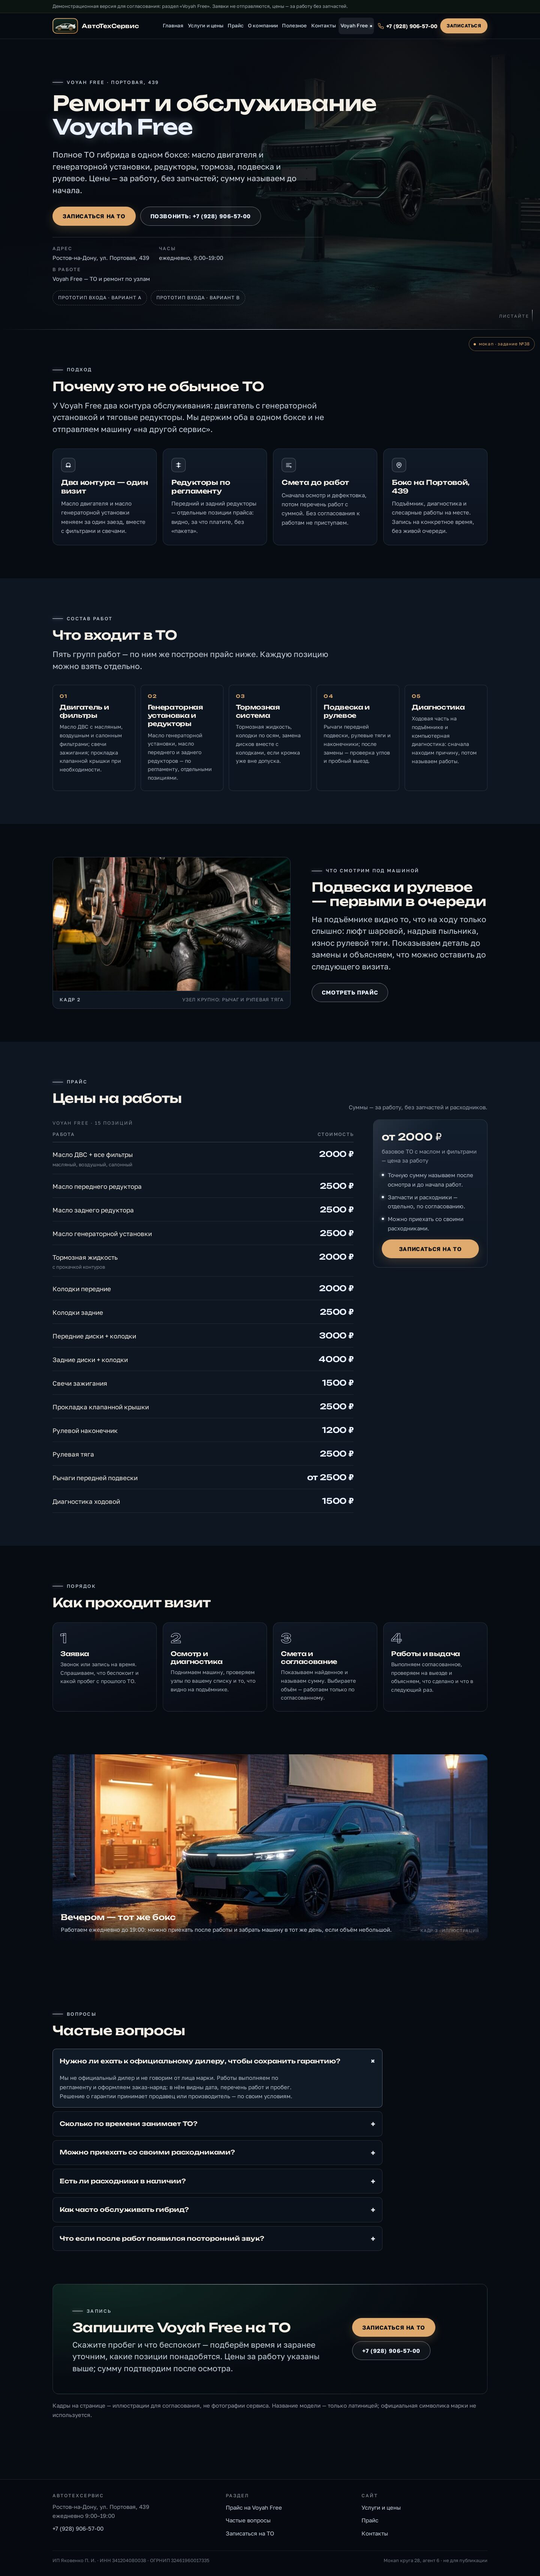
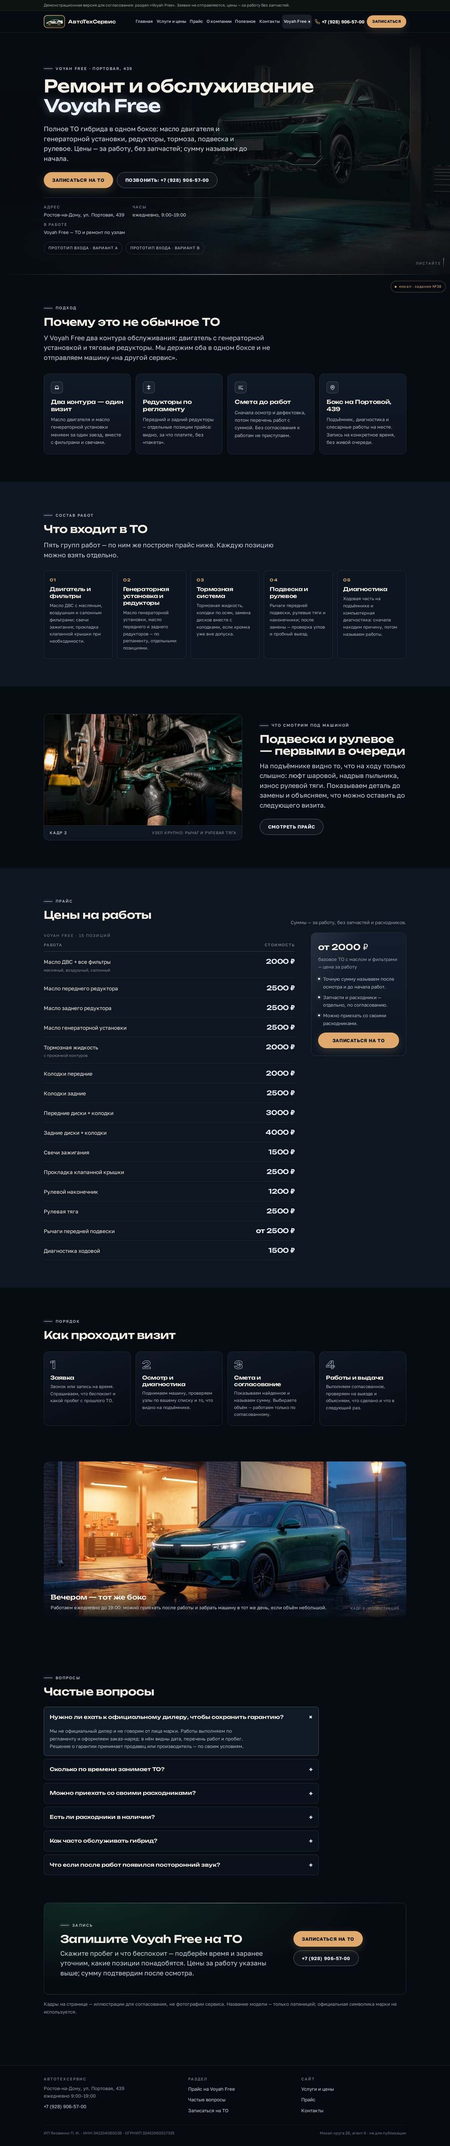
r28/a6: скриншоты в shots/ приведены под 400 КБ (полная страница 1440 сжата до 1200 px)

diff --git a/mockups/r28/voyah/README.md b/mockups/r28/voyah/README.md
@@ -8,7 +8,7 @@
 | `home-section.html` | секция-тизер для главной **между «О компании» и «Как мы работаем»**: сверху фрагмент тёмной секции, снизу — айвори, между ними пунктирные «линейки стыка» (только в мокапе) |
 | `intro-a.html` | прототип входа, вариант A «Световая линия» |
 | `intro-b.html` | прототип входа, вариант B «Сборка силуэта из световых полос» |
-| `shots/` | скриншоты (см. ниже) |
+| `shots/` | 14 скриншотов, каждый ≤ 400 КБ (см. ниже) |
 | `src/` | исходники страниц без инлайн-CSS — для правок; `node build.cjs` пересобирает четыре итоговых файла |
 
 `build.cjs`, `measure.cjs`, `shot.cjs`, `verify.cjs` — служебные скрипты стенда (puppeteer-core + Chromium 131).
@@ -21,7 +21,7 @@
 | Файл | Что показывает |
 |---|---|
 | `page-1440-hero.jpg` | первый экран 1440 |
-| `page-1440-full.jpg` | страница целиком, 1440 (для оценки ритма) |
+| `page-1440-full.jpg` | страница целиком, 1440 → сжата до 1200 px по ширине, чтобы вес был под 400 КБ (для оценки ритма) |
 | `page-390-hero.jpg`, `page-390-full.jpg`, `page-390-price.png` | мобильный первый экран, страница целиком, прайс карточками |
 | `home-section-1440.jpg`, `home-section-390.png` | стык «О компании» → тизер → «Как мы работаем» |
 | `header-1440.png`, `header-1024.png` | шапка с семью пунктами на 1440 и 1024 (кнопка «Записаться» внутри контейнера) |
